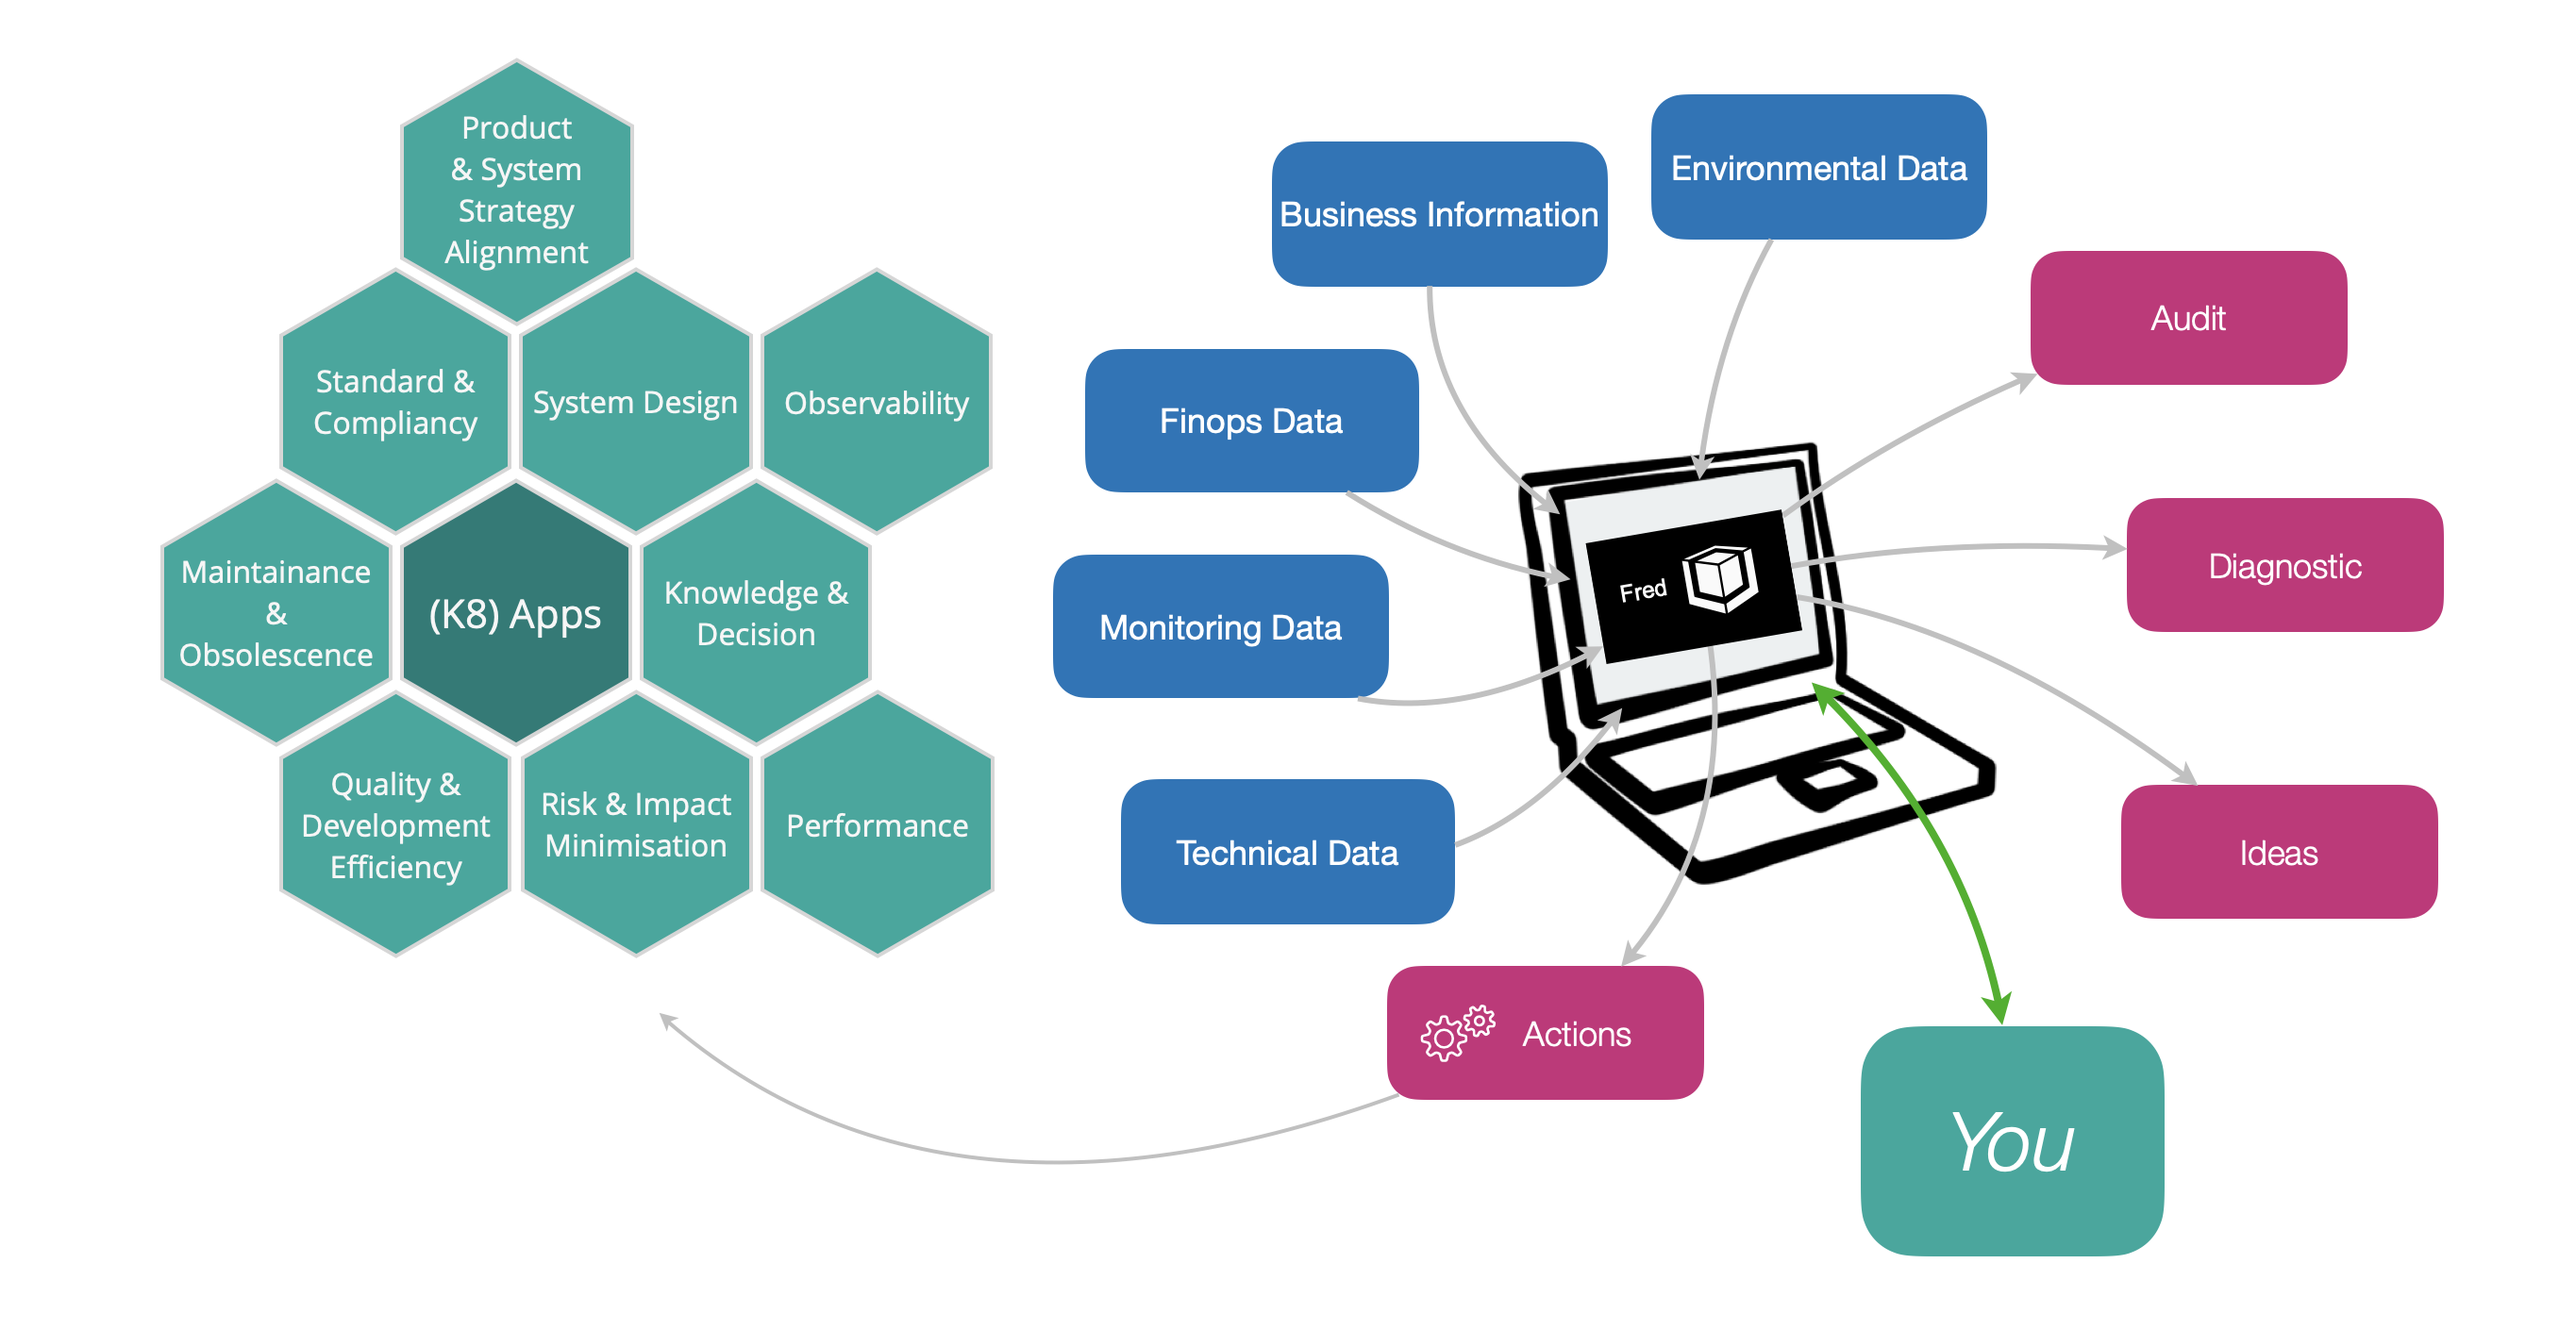
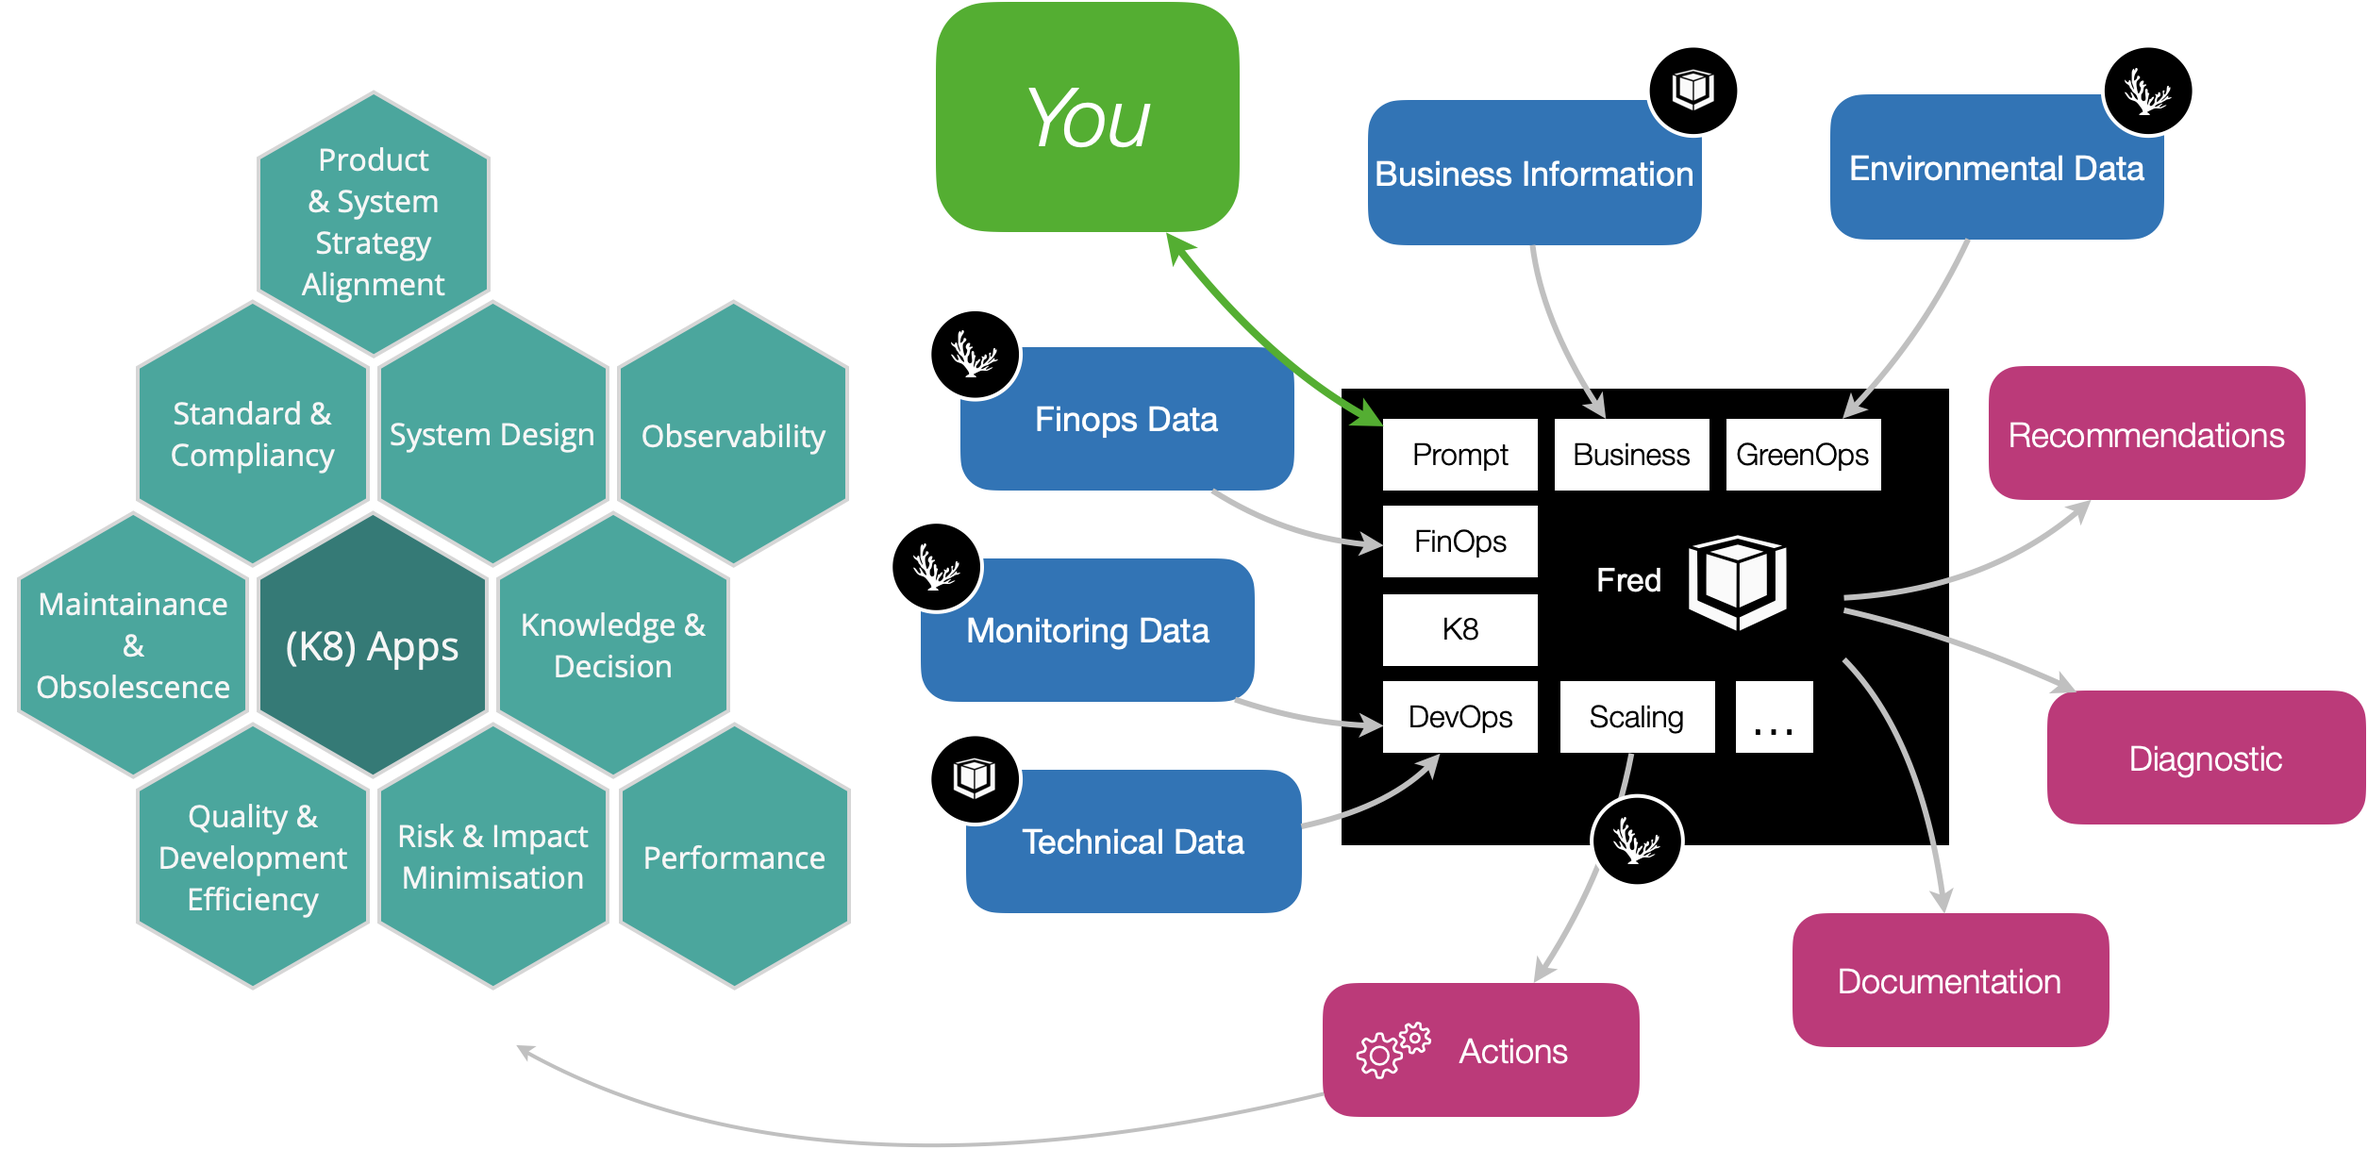
#0001 improved fred blog

diff --git a/content/blogs/fred/index.md b/content/blogs/fred/index.md
@@ -4,7 +4,6 @@ date: 2024-11-18T13:48:14+02:00
 summary: 'an AWS kubernetes overview generated by Frugal IT'
 categories:
 - Blog
-- Draft
 tags:
 - generative AI
 - compliancy
@@ -36,6 +35,10 @@ By customizing this architecture, we have created an assistant capable of deep a
 <div style="text-align: center;">
     <img src="fred_role.png" alt="Fred Overview" width="90%">
 </div>
+
+{{< admonition note "Important Notice" >}}
+This illustration highlights Fred's core modules, represented by its logo, and the additional modules and agents added to support the [Frugal-IT](/building-blocks/frugal-it/) application, represented by the coral logo. 
+{{< /admonition >}}
 
 Fred is a now an open source project composed of a python backend and a companion UI, highlighed next. 
 <div style="text-align: center;">
